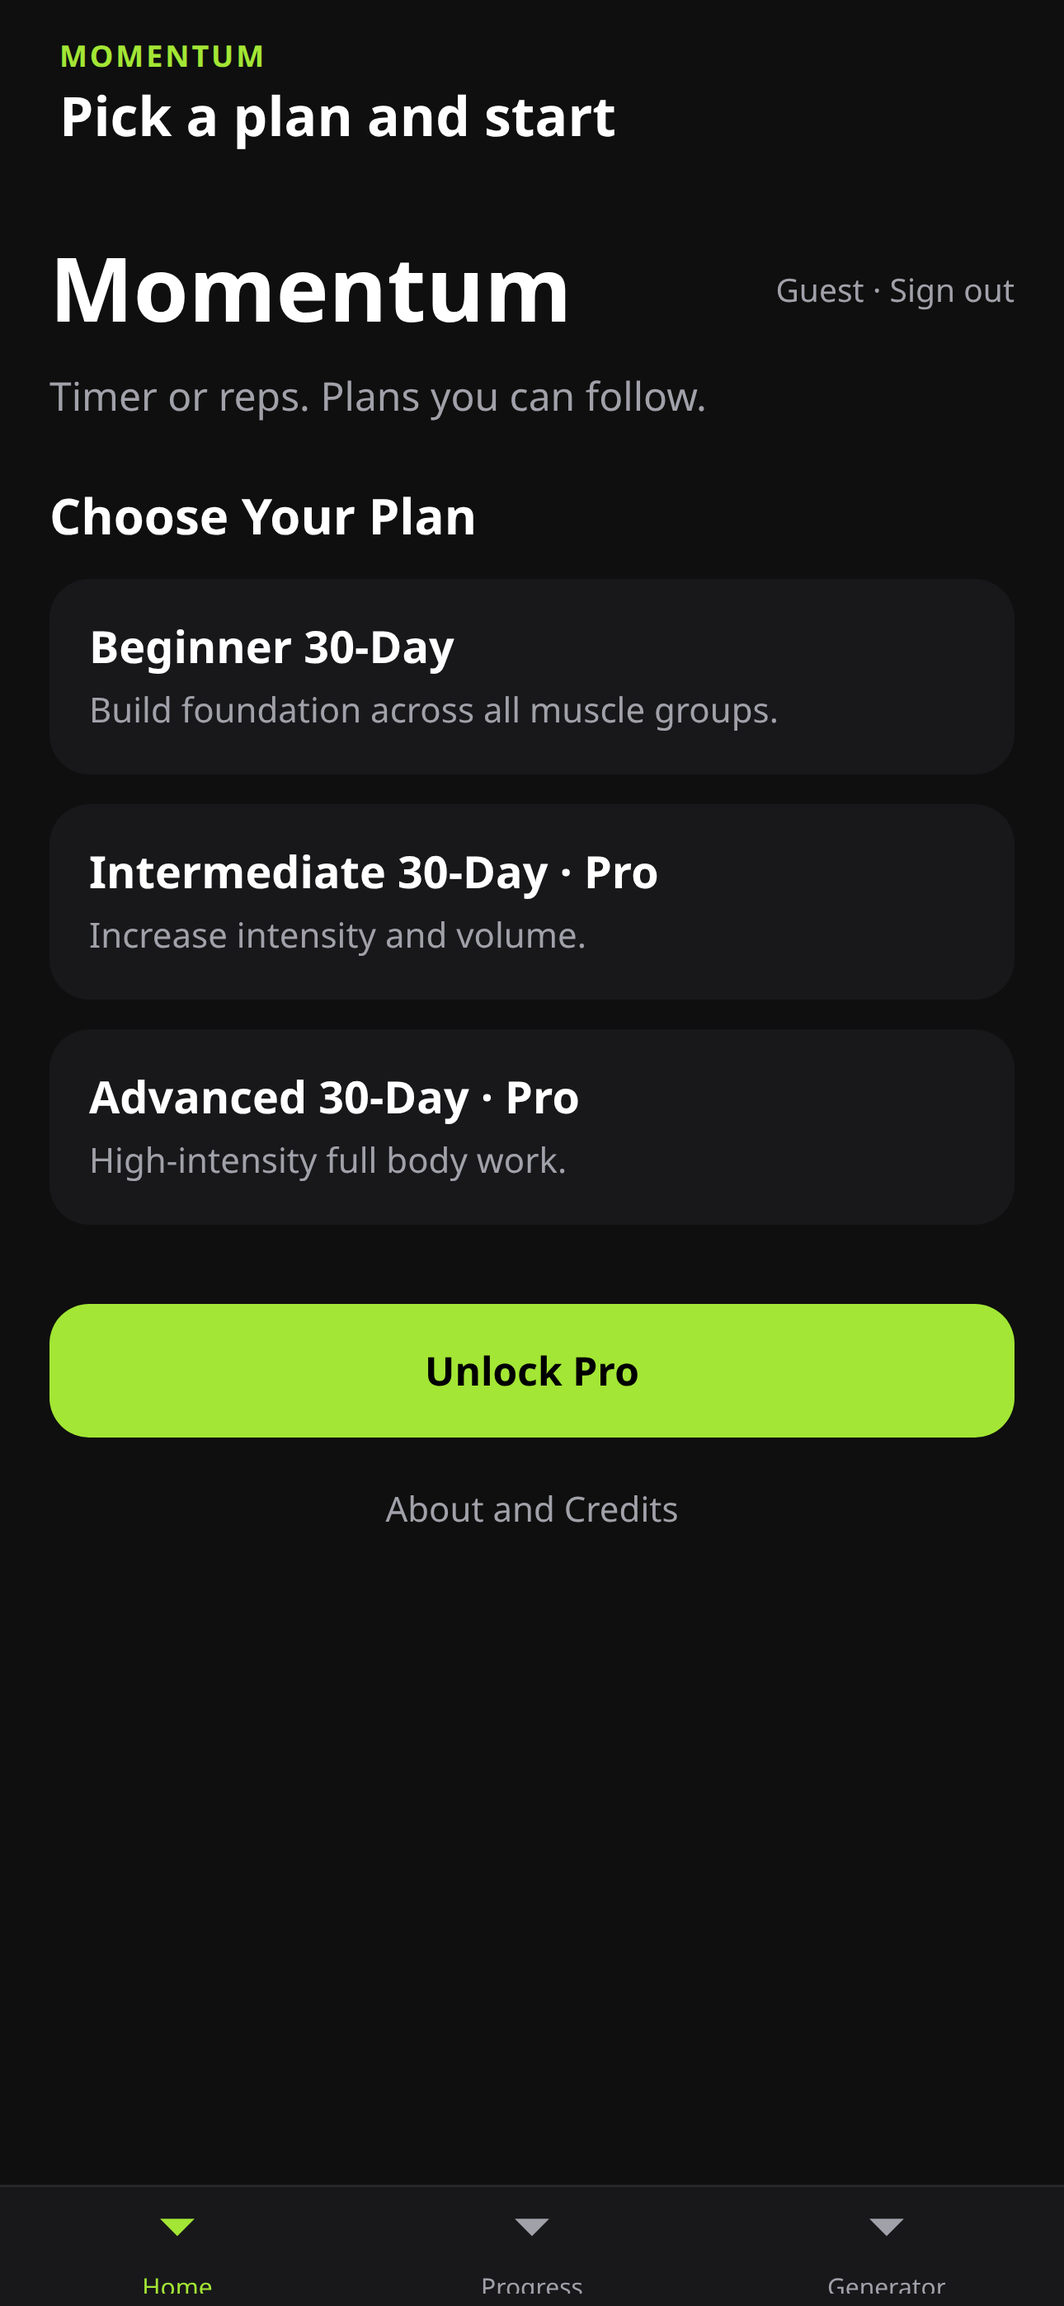
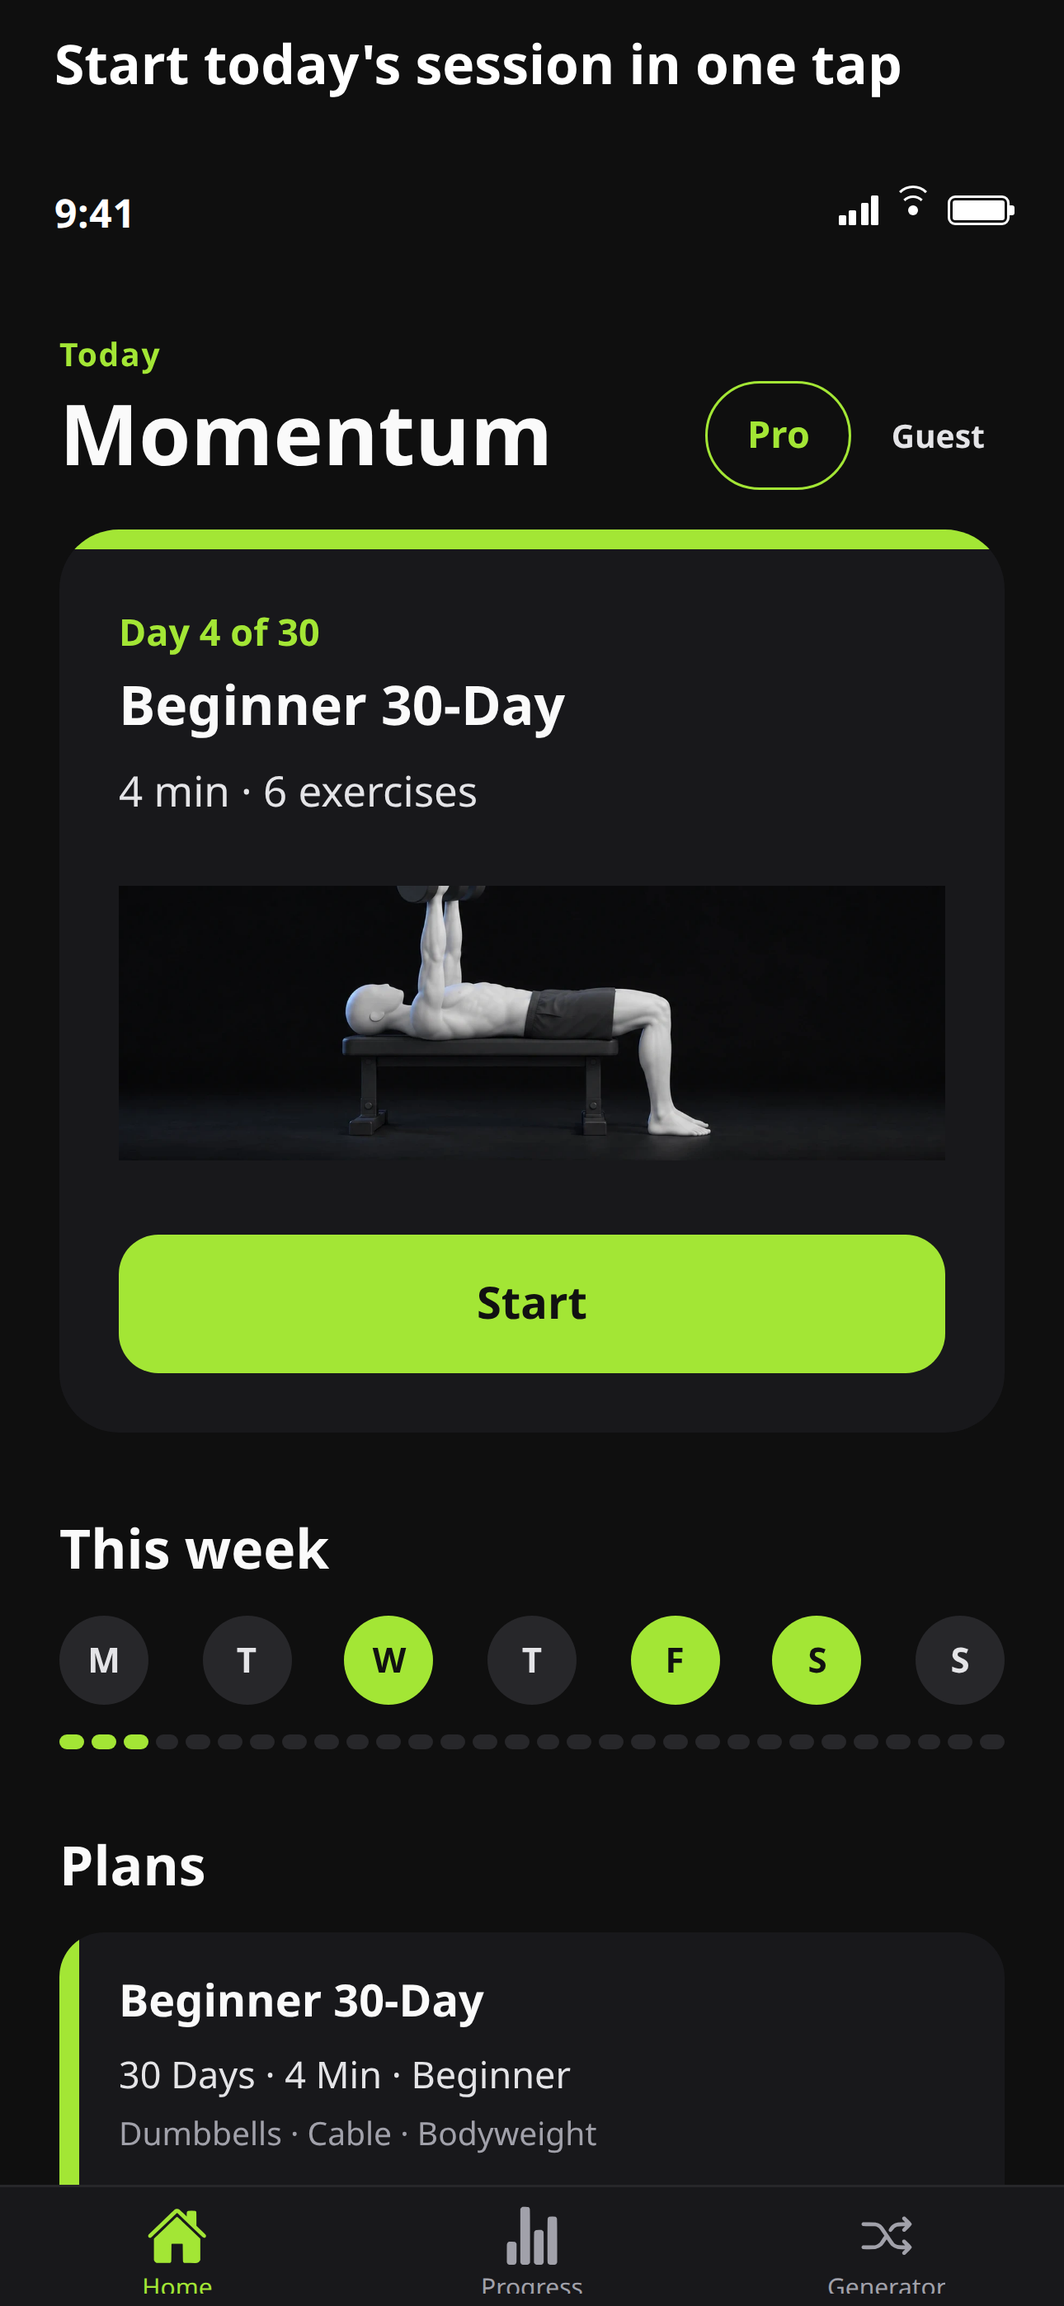
docs: replace store shots with the redesigned screens
Adds the 6.9 and 6.5 inch sets, the paywall review images, and the publisher field file for the current Home, Plans, player, Progress, and Generator screens.

diff --git a/docs/store/review-notes-2.1.md b/docs/store/review-notes-2.1.md
@@ -1,26 +1,27 @@
 # App Review notes — Guideline 2.1
 
-Draft for Momentum – Men's Workout, version 1.0.0, TestFlight build 2. Paste only if that binary is the one in review. No login is required. Prices below match `qa/MomentumMen.storekit` and `PRICING.md`.
+For Momentum – Men's Workout, version 1.0.0, build 3 (`app.json` `ios.buildNumber` is 3, `supportsTablet` is false). No login is required. Prices match `qa/MomentumMen.storekit` and `PRICING.md`.
 
 ## 1. What the app is
 
-Momentum – Men's Workout is a training app for guided strength sessions on iPhone. Each exercise has a timer or a rep counter and a short form cue. The download is free (US $0.00).
+Momentum – Men's Workout is a training app for guided strength sessions on iPhone. Home opens on today's session. Each exercise has a timer or a rep counter and a short form cue. The download is free (US $0.00).
 
 ## 2. No account
 
-No account and no login. The first screen has one button, Continue as Guest. There is no email field and no password. Progress is stored on the device only (AsyncStorage). It is not uploaded to a server of ours. Home shows "Guest · Sign out". Sign out returns to the guest screen. Guideline 5.1.1 account deletion does not apply, because there is no account.
+No account and no login. The first screen has one button, Continue as Guest. There is no email field and no password. Progress is stored on the device only. It is not uploaded to a server of ours. On Home, the word Guest is the sign-out control. Tapping it returns to the guest screen. Guideline 5.1.1 account deletion does not apply, because there is no account.
 
 ## 3. How to move through the app
 
 1. Launch the app.
 2. Tap Continue as Guest.
-3. Home lists three plans.
-   - Beginner 30-Day opens the workout player. It stays available without a purchase.
-   - Intermediate 30-Day and Advanced 30-Day are labeled Pro. Tapping either one while Pro is inactive opens the paywall.
-4. On the workout screen, the exercise name, form cue, and illustration are on that same screen. Timer and Reps switch the counter. START and PAUSE run the timer. NEXT goes to the next exercise. FINISH on the last exercise saves the session on the device and returns to Home.
-5. The Progress tab shows the day streak, workout count, this week, and recent dates from that on-device record.
-6. The Generator tab is the custom session builder. Start Custom Workout opens the paywall when Pro is inactive. With Pro active, it opens the same workout player with the chosen exercises.
-7. About and Credits is a link on Home. It is not required to use the app. It lists illustration credits and the privacy, terms, and support links.
+3. Home shows Day N of 30 for the Beginner plan, the session length, the exercise count, and a Start button. Start opens the workout player. Beginner stays available without a purchase.
+4. Scroll to Plans. Each card shows the day count, minutes, level, and equipment.
+   - Beginner opens the workout player.
+   - Intermediate and Advanced show a Pro badge. Tapping either one while Pro is inactive opens the paywall.
+5. On the workout screen the header reads Exercise X of Y and the time left in the session. Timer and Reps switch the counter. Start and Pause run the timer. Previous goes back one exercise. Next moves forward. Finish on the last exercise saves the session on the device and returns to Home.
+6. The Progress tab shows the streak ring, workout count, minutes, this week, and recent dates.
+7. The Generator tab is the custom session builder. Pick a duration and a focus, then select exercises. The start button opens the paywall when Pro is inactive. With Pro active, it opens the same workout player.
+8. About and Credits is a link under Plans. It is not required to use the app.
 
 The app is not a hard paywall. Beginner, the workout player, and Progress work with no purchase.
 
@@ -28,9 +29,9 @@ The app is not a hard paywall. Beginner, the workout player, and Progress work w
 
 Open the paywall from any of these:
 
-- Unlock Pro on Home
-- Intermediate 30-Day or Advanced 30-Day on Home, when Pro is inactive
-- Start Custom Workout on the Generator tab, when Pro is inactive
+- The Pro pill at the top of Home
+- Intermediate or Advanced on the Plans list, when Pro is inactive
+- The start button on the Generator tab, when Pro is inactive
 
 Close is at the top of the paywall.
 
@@ -40,28 +41,28 @@ Terms, Privacy, and the Apple standard EULA are linked at the bottom of the payw
 
 ## 5. In-app purchases
 
-Sold through Apple In-App Purchase (StoreKit 2 via expo-iap). US prices:
+Sold through Apple In-App Purchase (StoreKit 2). US prices:
 
 - `com.samayvashsht.momentummen.monthly` — $2.99 a month, 7-day free trial for eligible new subscribers
 - `com.samayvashsht.momentummen.yearly` — $19.99 a year, 7-day free trial for eligible new subscribers
 - `com.samayvashsht.momentummen.lifetime` — $39.99 one-time, no trial, does not renew
 
-The download is free. After the 7-day trial, the monthly or yearly subscription starts unless it is cancelled at least 24 hours before the trial ends. The price shown in the app is the App Store price for the reviewer's storefront. When the store reports an eligible trial, the subscription buttons say "7 days free, then <price>, cancel anytime". Lifetime does not use trial wording. It says the price is one-time and does not renew.
+The download is free. After the 7-day trial, the monthly or yearly subscription starts unless it is cancelled at least 24 hours before the trial ends. The price shown in the app is the App Store price for the reviewer's storefront. When the store reports an eligible trial, the subscription buttons say "7 days free, then <price>, cancel anytime". Lifetime does not use trial wording.
 
 There is no other payment processor.
 
 ## 6. Services
 
-Workout history stays on the device. Purchases are with Apple. Privacy and terms open in the browser:
+Workout history stays on the device. Purchases are with Apple. Privacy, terms, and support open in the browser:
 
 - Privacy: https://samayhuf-star.github.io/app-legal/momentum-men/privacy.html
 - Terms: https://samayhuf-star.github.io/app-legal/momentum-men/terms.html
 - Support: https://samayhuf-star.github.io/app-legal/momentum-men/support.html
 
-This build does not read or write Apple Health. There is no analytics SDK in the project.
+This build does not read or write Apple Health.
 
 ## 7. Review access
 
 Demo account: not required.
 
-Contact: Samay Vashsht, samayhuf@gmail.com.
+Contact: Samay Vashsht, samayhuf@gmail.com. Phone: [phone placeholder].

diff --git a/docs/store/listing-draft.md b/docs/store/listing-draft.md
@@ -1,8 +1,8 @@
 # App Store listing draft — Momentum – Men's Workout
 
-Draft for dev 1. Do not paste into App Store Connect from this file until Samay says the build 2 binary is the one to submit. Do not add outcome claims when pasting. Character counts are Unicode code points.
+Draft for the publisher. Do not paste into App Store Connect from this file until the build 3 binary is the one in review. Do not add outcome claims when pasting. Character counts are Unicode code points.
 
-Checked 14 Nov 2026 against `app.json`, `src/lib/pro.js`, `src/screens/CreditsScreen.js`, `PRICING.md`, `IAP_SETUP.md`, and `qa/MomentumMen.storekit`.
+Checked against `app.json` on `main` (`ios.buildNumber` 3, `supportsTablet` false), `src/lib/pro.js`, `src/screens/HomeScreen.js`, `src/screens/PaywallScreen.js`, `PRICING.md`, and `qa/MomentumMen.storekit`.
 
 ## Identity
 
@@ -12,17 +12,17 @@ Checked 14 Nov 2026 against `app.json`, `src/lib/pro.js`, `src/screens/CreditsSc
 | Subtitle | Workouts with timer or reps | 27 | 30 |
 | Category | Health & Fitness | | primary |
 | Bundle ID | `com.samayvashsht.momentummen` | | |
-| Version | 1.0.0 (TestFlight build 2) | | |
+| Version | 1.0.0 (build 3 in `app.json`) | | |
 
-The name uses an en dash, the same character as `app.json`. Copyright line for the record: 2026 Samay Vashsht.
+The name uses an en dash, the same character as `app.json`. Copyright: 2026 Samay Vashsht.
 
-Secondary category was suggested earlier as Lifestyle. That is optional.
+Secondary category, optional: Lifestyle.
 
 ## Promo text
 
-170 characters maximum. This draft is 159.
+170 characters maximum. This draft is 128.
 
-Short strength sessions with a timer or a rep counter, plus form cues and a simple plan. Start free, then go Pro for every plan and the custom session builder.
+Open today's session in one tap. Train with a timer or a rep counter, follow a 30-day plan, or build your own. Free to download.
 
 ## Keywords
 
@@ -34,7 +34,7 @@ workout,fitness,gym,training,exercise,strength,timer,reps,home,plans
 
 Momentum – Men's Workout is a training app for short strength sessions on iPhone.
 
-Pick a plan and train each exercise with a timer or a rep counter. A short form cue stays on the screen. Your streak and completed workouts stay on this device.
+Home opens on today's session. Tap Start for the free Beginner plan, or pick Intermediate or Advanced from the plan list. Each exercise has a timer or a rep counter and a short form cue. Your streak and completed workouts stay on this device. The Generator lets you choose a duration and the exercises you want.
 
 The download is free. A 7-day free trial is available on the monthly and yearly plans. Then Momentum Pro is:
 
@@ -46,30 +46,27 @@ Lifetime is a one-time purchase and does not renew. After a trial, a subscriptio
 
 ## URLs
 
-Checked with HTTP GET on 14 Nov 2026. Each returned 200 and an HTML page for this app.
+Support and privacy were checked with HTTP GET on 14 Nov 2026. Both returned 200. There is no separate marketing page that returns 200. Use the support page if a marketing URL is required.
 
 | Use | URL | Result |
 | --- | --- | --- |
-| Privacy | https://samayhuf-star.github.io/app-legal/momentum-men/privacy.html | 200, 3356 bytes |
-| Support | https://samayhuf-star.github.io/app-legal/momentum-men/support.html | 200, 3586 bytes |
-| Terms (also linked in the app) | https://samayhuf-star.github.io/app-legal/momentum-men/terms.html | 200, 4300 bytes |
+| Privacy | https://samayhuf-star.github.io/app-legal/momentum-men/privacy.html | 200 |
+| Support | https://samayhuf-star.github.io/app-legal/momentum-men/support.html | 200 |
+| Marketing | https://samayhuf-star.github.io/app-legal/momentum-men/support.html | 200, same page as support |
+| Terms | https://samayhuf-star.github.io/app-legal/momentum-men/terms.html | 200 |
 
-Privacy and support are the URLs to put on the version. The same three addresses are in `src/lib/pro.js` (privacy, terms) and `src/screens/CreditsScreen.js` (privacy, terms, support).
+## Pricing check
 
-## Pricing check (no code change)
-
-Requested price: free download, 7-day free trial, then $2.99 a month, $19.99 a year, or $39.99 lifetime.
+Free download, 7-day free trial, then $2.99 a month, $19.99 a year, or $39.99 lifetime.
 
 | Product ID | Kind | Price in repo | Trial in repo |
 | --- | --- | --- | --- |
-| `com.samayvashsht.momentummen.monthly` | auto-renewable subscription | $2.99 (`qa/MomentumMen.storekit` `displayPrice` `2.99`, period P1M) | 7 days (`introductoryOffer` paymentMode `free`, period P1W) |
-| `com.samayvashsht.momentummen.yearly` | auto-renewable subscription | $19.99 (displayPrice `19.99`, period P1Y) | 7 days (same intro shape) |
-| `com.samayvashsht.momentummen.lifetime` | non-consumable | $39.99 (displayPrice `39.99`) | none |
+| `com.samayvashsht.momentummen.monthly` | auto-renewable subscription | $2.99 | 7 days |
+| `com.samayvashsht.momentummen.yearly` | auto-renewable subscription | $19.99 | 7 days |
+| `com.samayvashsht.momentummen.lifetime` | non-consumable | $39.99 | none |
 
-`src/lib/pro.js` builds those three IDs from `com.samayvashsht.momentummen` plus `.monthly`, `.yearly`, and `.lifetime`. `PRICING.md` and `IAP_SETUP.md` use the same IDs and the same US prices. The paywall does not hardcode a dollar amount. It shows the store `displayPrice`. Trial text is shown only when the store reports an eligible trial. Lifetime copy has no trial.
+No product-id or price mismatch in the repo. The paywall shows the store's price. It does not hardcode a dollar amount. The paywall review images use these US prices so the three options are visible.
 
-The simulator paywall captured in `docs/sim-screenshots/03-paywall.png` (sim-qa run 43585054476, commit `69df668`) shows "$19.99/year", "$2.99/month", and "$39.99" with trial lines only on the two subscriptions.
+## Screenshots
 
-No product-id or price mismatch found in the repo. App Store Connect itself was not opened.
-
-One copy detail, not a price mismatch: `ctaText` in `src/lib/introOffer.js` says the words "7 days free" whenever any trial length is eligible. `planLine` uses the length the store returns. The StoreKit file's intro is 7 days, so both lines match today.
+See `screenshots/README.md`. Store sets are `screenshots/ios-6.9/` and `screenshots/ios-6.5/`. Paywall review images are `screenshots/iap-review/`.

diff --git a/docs/store/screenshots/README.md b/docs/store/screenshots/README.md
@@ -1,42 +1,29 @@
-# App Store screenshots (iPhone 6.9")
+# App Store screenshots
 
-Listing art for Momentum – Men's Workout. These are not the simulator QA captures in `docs/sim-screenshots/` (that set includes the paywall). Do not upload permission, settings, or restore screens. The paywall is not in this folder.
+Rendered from `main` after the build 3 fixes and the redesign. Each store shot has a short caption band and an iOS status bar reading 9:41 with a full battery. No permission, settings, or restore screen is in the store set. The paywall is only in `iap-review/`, for In-App Purchase review.
 
-## Build 3 capture is not in these files yet
+The pictures are the app's own screens. Exercise art is the existing Open Exercise Illustrations (CC0) still on the Beginner session. Prices on the paywall shots are the US prices the paywall already prints when the store returns them: $2.99 a month, $19.99 a year with a 7-day trial, and $39.99 lifetime.
 
-The PNG files below are still the 14 Nov 2026 web renders of the build 2 screens. They do not show the build 3 tab icons, the formatted progress dates, or the new generator subtitle. Do not upload them as build 3 listing art.
+## 6.9 inch (1290×2796)
 
-`release/build3` teaches the simulator flow to boot a device whose framebuffer is 1290×2796 and to save `01-home.png`, `02-workout.png`, `03-exercise-detail.png`, `04-progress.png`, and `05-generator.png` from `XCUIScreen`. That job has to run on `AI-Samay/sim-qa-runner`. The token available for this session received HTTP 403 when it tried to dispatch the workflow, so these files were not replaced. When that run exists, replace the five PNGs with the artifact and change this README to say they are simulator captures.
+| File | Screen | Caption |
+| --- | --- | --- |
+| `ios-6.9/01-home.png` | Home, today's session | Start today's session in one tap |
+| `ios-6.9/02-plans.png` | Plans | Clear 30-day plans |
+| `ios-6.9/03-workout.png` | Workout player | Timer or reps, your call |
+| `ios-6.9/04-progress.png` | Progress | See your streak grow |
+| `ios-6.9/05-generator.png` | Generator | Build a quick workout |
 
-Canvas size for every file: **1290 × 2796** (6.9" portrait).
+## 6.5 inch (1284×2778)
 
-| File | Screen | Caption | What it shows |
-| --- | --- | --- | --- |
-| `ios-6.9/01-home.png` | Home | Pick a plan and start | Beginner plan (free), Intermediate and Advanced marked Pro, Unlock Pro, About and Credits. Guest is signed in. |
-| `ios-6.9/02-workout.png` | Workout player | Train with a timer | Exercise 1 of 6, Dumbbell Bench Press, timer at 00:40. Illustration is the Open Exercise Illustrations still `dumbbell-chest-press-start.webp` (CC0). |
-| `ios-6.9/03-exercise-detail.png` | Same workout screen, next exercise, Reps mode | Form cue on every exercise | Exercise 2 of 6, Close Grip Pulldown, 12 reps. There is no separate exercise-detail route; the illustration, name, and cue are `ExerciseMedia` on the workout screen (`testID` `exercise-detail`). Illustration is `close-grip-lat-pulldown-start.webp` (CC0). |
-| `ios-6.9/04-progress.png` | Progress | Saved on this device | Streak 3, workouts 3, week marks, and the three saved dates. Counts come from the on-device `progress` record the screen already reads. |
-| `ios-6.9/05-generator.png` | Generator | Build your own session | Duration choices and the top of the exercise list. The in-app subtitle still says "Build your own core session" while the list includes chest moves. See the note below. |
+Same five screens and captions:
 
-## How they were made
+- `ios-6.5/01-home.png`
+- `ios-6.5/02-plans.png`
+- `ios-6.5/03-workout.png`
+- `ios-6.5/04-progress.png`
+- `ios-6.5/05-generator.png`
 
-Rendered on 14 Nov 2026 from the app source at `69df668` (the commit uploaded as TestFlight build 2). No app code was changed to take the shots.
+## In-App Purchase review (1290×2796)
 
-iOS Simulator is not available on this Linux machine, and a new macOS Actions run was not started. The screens were bundled from the real `App.js` and screen components with [react-native-web](https://github.com/necolas/react-native-web) (the same web renderer Expo web uses). Expo CLI was not started. `expo-iap` was replaced with a stub that connects and returns no products, so the bundle can load. These five screens do not call StoreKit. Images are the files `require()`'d in `src/lib/exerciseMediaMap.js`, copied unchanged into the page.
-
-Chrome headless drew the page at 430 × 932 CSS pixels with a device scale factor of 3, then the frame was saved. A 72px caption band sits above the app. The band is not part of the app. Safe-area insets were 0 because this Chrome build reports none, so the web shots do not show the status-bar clock or the home indicator. The earlier simulator captures in `docs/sim-screenshots/` do.
-
-The Progress shot was taken after writing a `progress` value the real `ProgressContext` loads on launch: completed days `2026-11-11`, `2026-11-13`, and `2026-11-14`, streak 3, workouts 3. Those are the dates the screen prints. Empty progress would show "Complete a workout to start tracking."
-
-## Pictures
-
-Only licence-safe stills already in the repo are visible:
-
-- Open Exercise Illustrations, CC0 1.0, pinned in `assets/exercise-media/LICENSE-SOURCES.md`. The two workout shots use the dumbbell chest press and close-grip lat pulldown stills from that set.
-- No Everkinetic (CC BY-SA) stills are in these frames. No GIFs, stock photos, or generated images.
-
-## Before these go to App Store Connect
-
-- Tab icons are React Navigation's `MissingIcon` glyph (U+23F7). The app does not set `tabBarIcon`. The same glyph is on the simulator home capture from run 43585054476, so build 2 looks like this on device.
-- `05-generator.png` is optional listing art. The screen is real. The subtitle "core session" does not match the mixed exercise list. Leave it out of the upload if that line should change first.
-- `app.json` has `supportsTablet: true`. These files do not cover iPad. iPad shots, or a build with tablet support turned off, are still needed before submission.
+`iap-review/paywall.png` shows Close, the yearly, monthly, and lifetime options, Restore purchases, and Terms / Privacy. `paywall-yearly.png`, `paywall-monthly.png`, and `paywall-lifetime.png` are the same screen with that plan outlined.
